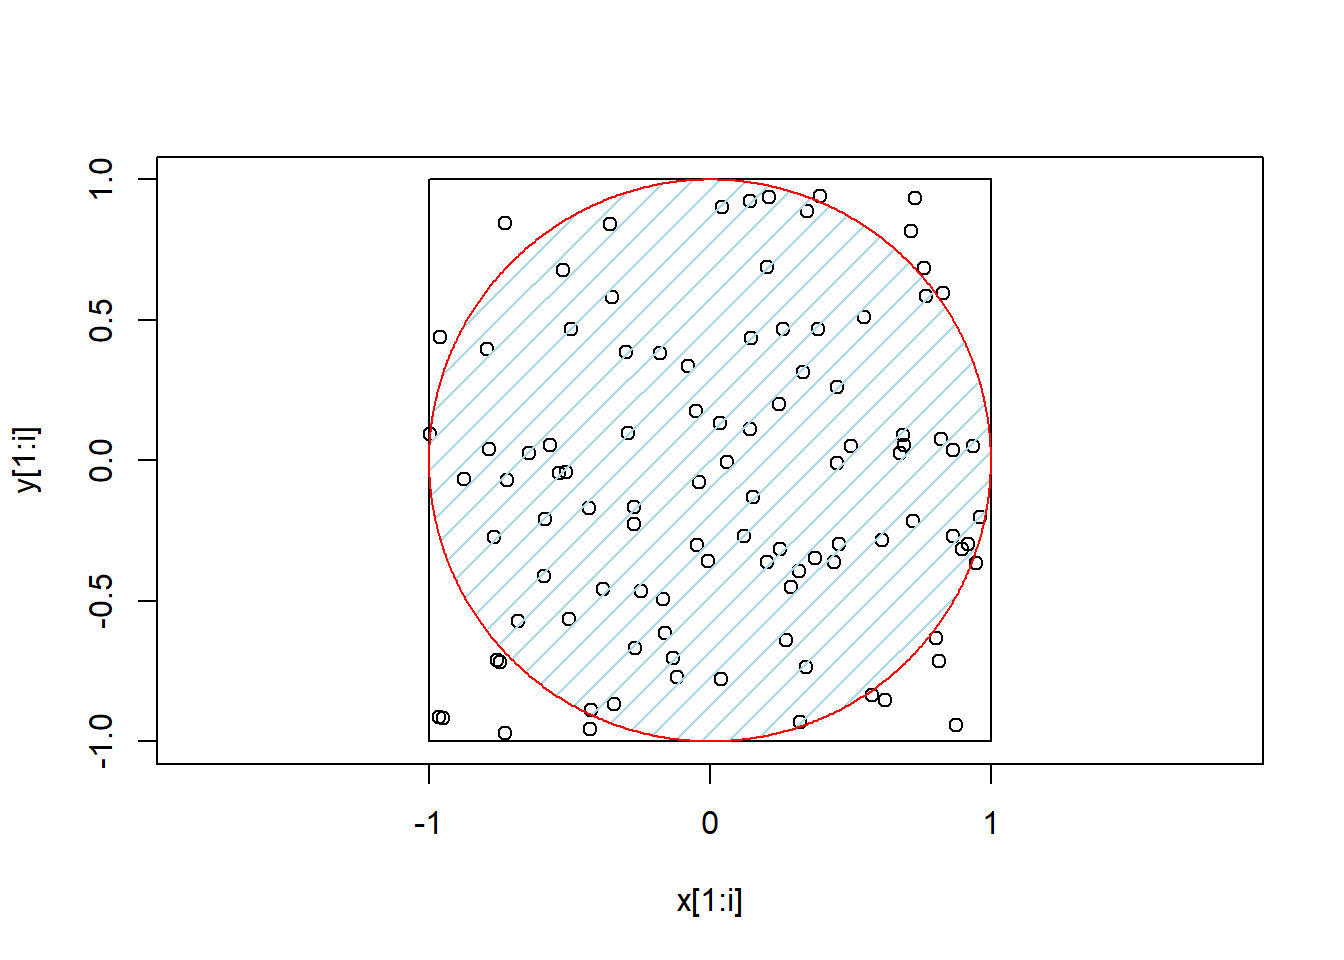
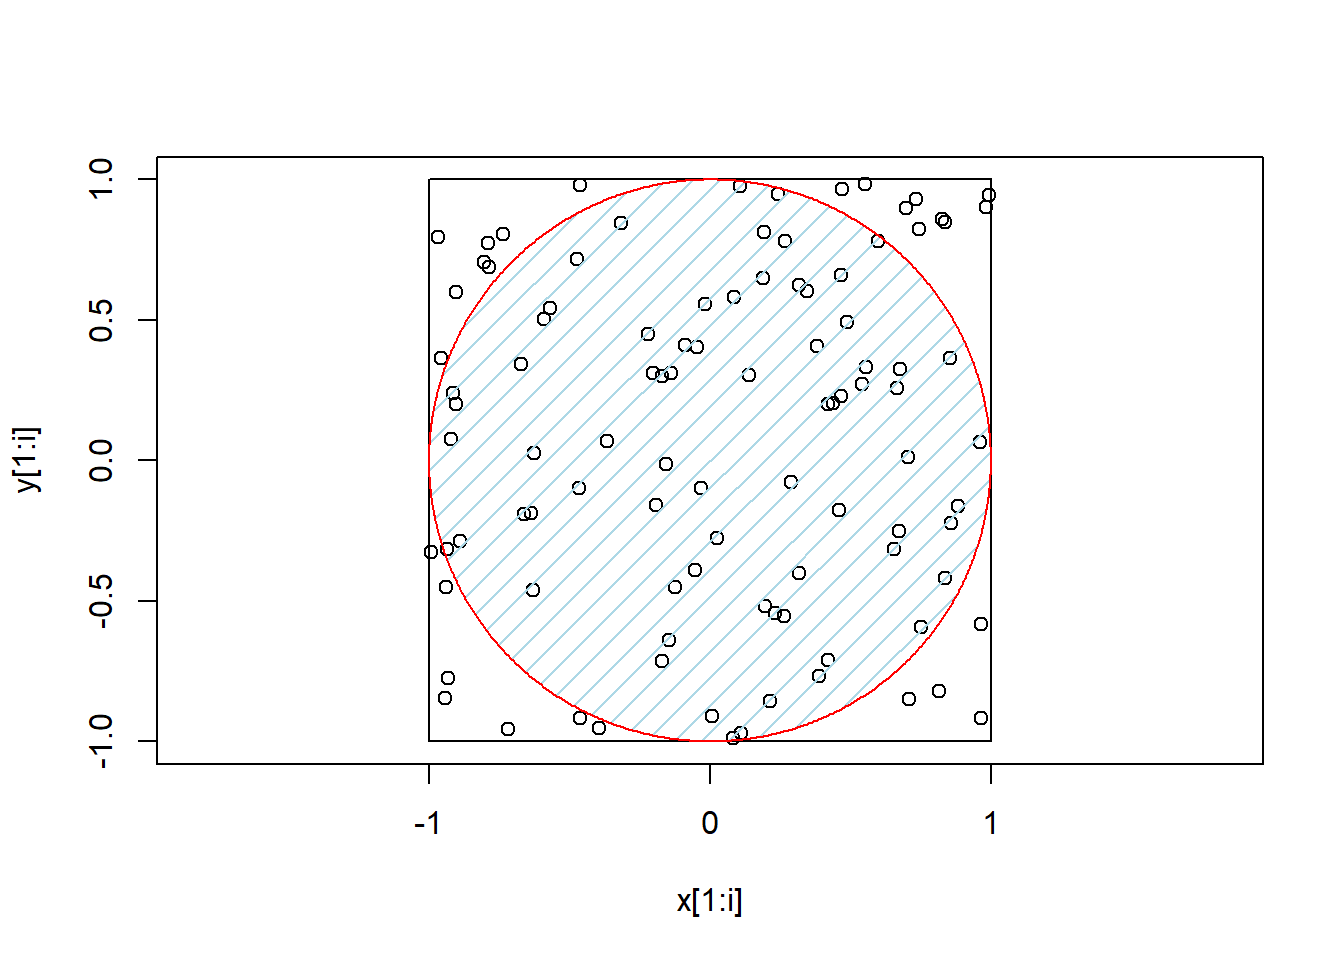
updated teasers

diff --git a/_site/index.html b/_site/index.html
@@ -174,9 +174,9 @@ ul.task-list li input[type="checkbox"] {
 
 <div class="quarto-listing quarto-listing-container-default" id="listing-listing">
 <div class="list quarto-listing-default">
-<div class="quarto-post image-right" data-index="0" data-categories="statistics,risk management" data-listing-date-sort="1687816800000" data-listing-file-modified-sort="1687887701206" data-listing-date-modified-sort="NaN" data-listing-reading-time-sort="4">
+<div class="quarto-post image-right" data-index="0" data-categories="statistics,risk management" data-listing-date-sort="1687816800000" data-listing-file-modified-sort="1688387655106" data-listing-date-modified-sort="NaN" data-listing-reading-time-sort="4">
 <div class="thumbnail">
-<p><a href="./posts/monte carlo simulation/monte carlo simulation.html"> <p class="card-img-top"><img src="posts\monte carlo simulation\Schematic of Monte Carlo simulation.png"  class="thumbnail-image card-img"/></p> </a></p>
+<p><a href="./posts/monte carlo simulation/monte carlo simulation.html"> <img src="./posts/monte carlo simulation/monte carlo simulation.png" class="thumbnail-image"> </a></p>
 </div>
 <div class="body">
 <a href="./posts/monte carlo simulation/monte carlo simulation.html">
@@ -197,7 +197,7 @@ risk management
 </div>
 <a href="./posts/monte carlo simulation/monte carlo simulation.html">
 <div class="listing-description">
-Monte Carlo simulation is a technique for estimating the probability distribution of a system using random sampling techniques.
+<p>Monte Carlo simulation is a technique for estimating the probability distribution of a system using random sampling techniques.</p>
 </div>
 </a>
 </div>
@@ -212,9 +212,9 @@ Johannes Buck
 </a>
 </div>
 </div>
-<div class="quarto-post image-right" data-index="1" data-categories="statistics,risk management" data-listing-date-sort="1686952800000" data-listing-file-modified-sort="1687097650805" data-listing-date-modified-sort="NaN" data-listing-reading-time-sort="7">
+<div class="quarto-post image-right" data-index="1" data-categories="statistics,risk management" data-listing-date-sort="1686952800000" data-listing-file-modified-sort="1688386826849" data-listing-date-modified-sort="NaN" data-listing-reading-time-sort="7">
 <div class="thumbnail">
-<p><a href="./posts/simulation models/simulation models.html"> <p class="card-img-top"><img src="posts\simulation models\Electric Circuit.png"  class="thumbnail-image card-img"/></p> </a></p>
+<p><a href="./posts/simulation models/simulation models.html"> <img src="./posts/simulation models/simulation model.png" class="thumbnail-image"> </a></p>
 </div>
 <div class="body">
 <a href="./posts/simulation models/simulation models.html">
@@ -235,7 +235,7 @@ risk management
 </div>
 <a href="./posts/simulation models/simulation models.html">
 <div class="listing-description">
-The statement <em>“All models are wrong, but some are useful”</em> is usually…
+<p>All models are wrong, but some are useful.</p>
 </div>
 </a>
 </div>
@@ -250,9 +250,9 @@ Johannes Buck
 </a>
 </div>
 </div>
-<div class="quarto-post image-right" data-index="2" data-categories="statistics,risk management" data-listing-date-sort="1686866400000" data-listing-file-modified-sort="1687888427540" data-listing-date-modified-sort="NaN" data-listing-reading-time-sort="3">
+<div class="quarto-post image-right" data-index="2" data-categories="statistics,risk management" data-listing-date-sort="1686866400000" data-listing-file-modified-sort="1688385831385" data-listing-date-modified-sort="NaN" data-listing-reading-time-sort="3">
 <div class="thumbnail">
-<p><a href="./posts/system models/system models.html"> <p class="card-img-top"><img src="posts\system models\Taxonomy of model types.png"  class="thumbnail-image card-img"/></p> </a></p>
+<p><a href="./posts/system models/system models.html"> <img src="./posts/system models/system model.png" class="thumbnail-image"> </a></p>
 </div>
 <div class="body">
 <a href="./posts/system models/system models.html">
@@ -273,7 +273,7 @@ risk management
 </div>
 <a href="./posts/system models/system models.html">
 <div class="listing-description">
-…
+<p>Quantitative risk assessment relies on models. A model is an abstraction of reality used to gain clarity about a problem and its potential solutions by reducing the complexity.</p>
 </div>
 </a>
 </div>
@@ -288,9 +288,9 @@ Johannes Buck
 </a>
 </div>
 </div>
-<div class="quarto-post image-right" data-index="3" data-categories="cyber security,risk management" data-listing-date-sort="1686175200000" data-listing-file-modified-sort="1688384314058" data-listing-date-modified-sort="NaN" data-listing-reading-time-sort="1">
+<div class="quarto-post image-right" data-index="3" data-categories="cyber security,risk management" data-listing-date-sort="1686175200000" data-listing-file-modified-sort="1688384411306" data-listing-date-modified-sort="NaN" data-listing-reading-time-sort="1">
 <div class="thumbnail">
-<p><a href="./posts/risk perception and assessment/risk perception and assessment.html"> <img src="./posts/risk perception and assessment/hacked-icon-2.jpg" class="thumbnail-image"> </a></p>
+<p><a href="./posts/risk perception and assessment/risk perception and assessment.html"> <img src="./posts/risk perception and assessment/Cognitive Biases.png" class="thumbnail-image"> </a></p>
 </div>
 <div class="body">
 <a href="./posts/risk perception and assessment/risk perception and assessment.html">
@@ -326,12 +326,12 @@ Johannes Buck
 </a>
 </div>
 </div>
-<div class="quarto-post image-right" data-index="4" data-categories="cyber security,risk management" data-listing-date-sort="1685829600000" data-listing-file-modified-sort="1685895740485" data-listing-date-modified-sort="NaN" data-listing-reading-time-sort="5">
+<div class="quarto-post image-right" data-index="4" data-categories="cyber security,risk management" data-listing-date-sort="1685829600000" data-listing-file-modified-sort="1688384673539" data-listing-date-modified-sort="NaN" data-listing-reading-time-sort="5">
 <div class="thumbnail">
-<p><a href="./posts/risk matrices/index.html"> <p class="card-img-top"><img src="posts\risk matrices\Classic 5x5 risk matrix with linear scales.png"  class="thumbnail-image card-img"/></p> </a></p>
+<p><a href="./posts/risk matrices/risk matrices.html"> <img src="./posts/risk matrices/Classic 5x5 risk matrix with linear scales.png" class="thumbnail-image"> </a></p>
 </div>
 <div class="body">
-<a href="./posts/risk matrices/index.html">
+<a href="./posts/risk matrices/risk matrices.html">
 <h3 class="no-anchor listing-title">
 Risk Matrices – Why they don’t work
 </h3>
@@ -347,14 +347,14 @@ cyber security
 risk management
 </div>
 </div>
-<a href="./posts/risk matrices/index.html">
+<a href="./posts/risk matrices/risk matrices.html">
 <div class="listing-description">
-Do we use risk matrices even though we know the limitations and shortcomings of…
+<p>Do we use risk matrices even though we know the limitations and shortcomings of this popular risk assessment tool?</p>
 </div>
 </a>
 </div>
 <div class="metadata">
-<a href="./posts/risk matrices/index.html">
+<a href="./posts/risk matrices/risk matrices.html">
 <div class="listing-date">
 Jun 4, 2023
 </div>

diff --git a/_site/posts/monte carlo simulation/monte carlo simulation.html b/_site/posts/monte carlo simulation/monte carlo simulation.html
@@ -8,6 +8,7 @@
 
 <meta name="author" content="Johannes Buck">
 <meta name="dcterms.date" content="2023-06-27">
+<meta name="description" content="Monte Carlo simulation is a technique for estimating the probability distribution of a system using random sampling techniques.">
 
 <title>β Blog - Monte Carlo Simulation</title>
 <style>
@@ -151,7 +152,12 @@ pre > code.sourceCode > span > a:first-child::before { text-decoration: underlin
   <div class="quarto-title-banner page-columns page-full">
     <div class="quarto-title column-body">
       <h1 class="title">Monte Carlo Simulation</h1>
-                                <div class="quarto-categories">
+                  <div>
+        <div class="description">
+          Monte Carlo simulation is a technique for estimating the probability distribution of a system using random sampling techniques.
+        </div>
+      </div>
+                          <div class="quarto-categories">
                 <div class="quarto-category">statistics</div>
                 <div class="quarto-category">risk management</div>
               </div>
@@ -198,7 +204,6 @@ pre > code.sourceCode > span > a:first-child::before { text-decoration: underlin
 
 
 
-<p>Monte Carlo simulation is a technique for estimating the probability distribution of a system using random sampling techniques.</p>
 <p>In Monte Carlo simulation, the behavior of a system is simulated using random numbers and probability distributions to replicate the uncertainties and variability that exist in the real world. It is particularly useful when the system or process being analyzed is too complex to solve analytically or when the underlying mathematical model is not well defined.</p>
 <p>Monte Carlo simulation is a stochastic method, which means that results can vary from simulation to simulation due to the random sampling involved. However, by using a large number of iterations, the simulation results converge to more accurate estimates.</p>
 <p><img src="../..\posts/monte carlo simulation/Schematic of Monte Carlo simulation.png" class="img-fluid"></p>
@@ -240,7 +245,7 @@ pre > code.sourceCode > span > a:first-child::before { text-decoration: underlin
 <span id="cb1-11"><a href="#cb1-11" aria-hidden="true" tabindex="-1"></a></span>
 <span id="cb1-12"><a href="#cb1-12" aria-hidden="true" tabindex="-1"></a><span class="fu">print</span>(<span class="dv">4</span> <span class="sc">*</span> num_darts_in_circle <span class="sc">/</span> num_darts)</span></code><button title="Copy to Clipboard" class="code-copy-button"><i class="bi"></i></button></pre></div>
 <div class="cell-output cell-output-stdout">
-<pre><code>[1] 3.188</code></pre>
+<pre><code>[1] 3.128</code></pre>
 </div>
 </div>
 <p>R code for optimized runtime with vector operations</p>
@@ -258,7 +263,7 @@ pre > code.sourceCode > span > a:first-child::before { text-decoration: underlin
 <span id="cb3-11"><a href="#cb3-11" aria-hidden="true" tabindex="-1"></a>num_darts_in_circle <span class="ot">&lt;-</span> <span class="fu">length</span>(indexes_darts_in_circle)</span>
 <span id="cb3-12"><a href="#cb3-12" aria-hidden="true" tabindex="-1"></a><span class="fu">print</span>(<span class="dv">4</span> <span class="sc">*</span> num_darts_in_circle <span class="sc">/</span> num_darts)</span></code><button title="Copy to Clipboard" class="code-copy-button"><i class="bi"></i></button></pre></div>
 <div class="cell-output cell-output-stdout">
-<pre><code>[1] 3.141988</code></pre>
+<pre><code>[1] 3.143724</code></pre>
 </div>
 </div>
 <div class="cell">

diff --git a/_site/posts/simulation models/simulation models.html b/_site/posts/simulation models/simulation models.html
@@ -8,6 +8,7 @@
 
 <meta name="author" content="Johannes Buck">
 <meta name="dcterms.date" content="2023-06-17">
+<meta name="description" content="All models are wrong, but some are useful.">
 
 <title>β Blog - Simulation Models</title>
 <style>
@@ -117,7 +118,12 @@ ul.task-list li input[type="checkbox"] {
   <div class="quarto-title-banner page-columns page-full">
     <div class="quarto-title column-body">
       <h1 class="title">Simulation Models</h1>
-                                <div class="quarto-categories">
+                  <div>
+        <div class="description">
+          All models are wrong, but some are useful.
+        </div>
+      </div>
+                          <div class="quarto-categories">
                 <div class="quarto-category">statistics</div>
                 <div class="quarto-category">risk management</div>
               </div>
@@ -168,7 +174,8 @@ ul.task-list li input[type="checkbox"] {
 
 
 
-<p>The statement <em>“All models are wrong, but some are useful”</em> is usually attributed to the statistician George Box [1]. A model is an approximation of reality. Reality is more complex than any model.</p>
+<p>The statement <em>“All models are wrong, but some are useful.”</em> is usually attributed to the statistician George Box [1].</p>
+<p>A model is an approximation of reality. Reality is more complex than any model.</p>
 <section id="deterministic-simulation-model" class="level2">
 <h2 class="anchored" data-anchor-id="deterministic-simulation-model">Deterministic simulation model</h2>
 <p>A deterministic simulation model does not contain any random variables. Deterministic simulation models have a known set of inputs that result in a unique set of outputs.</p>

diff --git a/_site/posts/system models/system models.html b/_site/posts/system models/system models.html
@@ -8,6 +8,7 @@
 
 <meta name="author" content="Johannes Buck">
 <meta name="dcterms.date" content="2023-06-16">
+<meta name="description" content="Quantitative risk assessment relies on models. A model is an abstraction of reality used to gain clarity about a problem and its potential solutions by reducing the complexity.">
 
 <title>β Blog - System Models</title>
 <style>
@@ -115,7 +116,12 @@ ul.task-list li input[type="checkbox"] {
   <div class="quarto-title-banner page-columns page-full">
     <div class="quarto-title column-body">
       <h1 class="title">System Models</h1>
-                                <div class="quarto-categories">
+                  <div>
+        <div class="description">
+          Quantitative risk assessment relies on models. A model is an abstraction of reality used to gain clarity about a problem and its potential solutions by reducing the complexity.
+        </div>
+      </div>
+                          <div class="quarto-categories">
                 <div class="quarto-category">statistics</div>
                 <div class="quarto-category">risk management</div>
               </div>
@@ -167,7 +173,6 @@ ul.task-list li input[type="checkbox"] {
 
 
 
-<p>Quantitative risk assessment relies on models. A model is an abstraction of reality used to gain clarity about a problem and its potential solutions by reducing the complexity.</p>
 <p>System models can be classified in relation to their randomness (deterministic or stochastic), time-dependence (static or dynamic), and number types (continuous or discrete).</p>
 <p><img src="../..\posts/system models/Taxonomy of model types.png" class="img-fluid"></p>
 <p>Figure 1: Taxonomy of model types</p>
